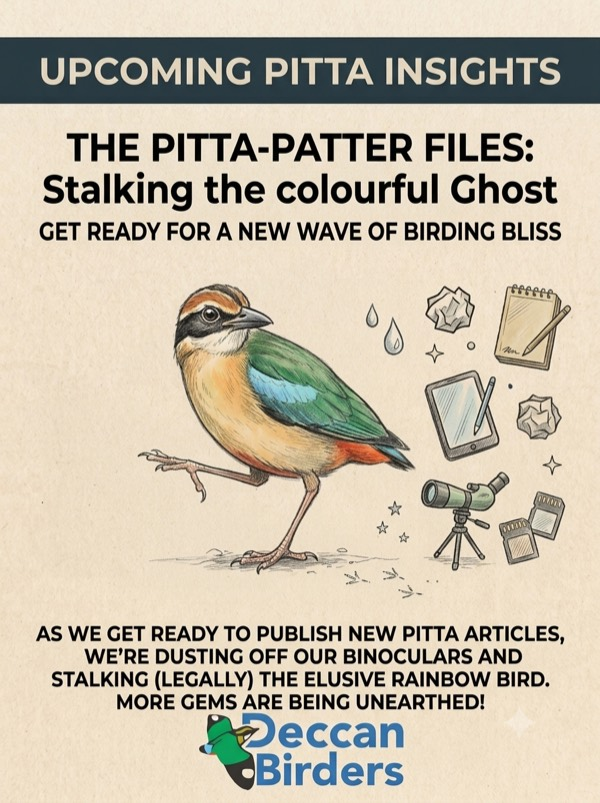
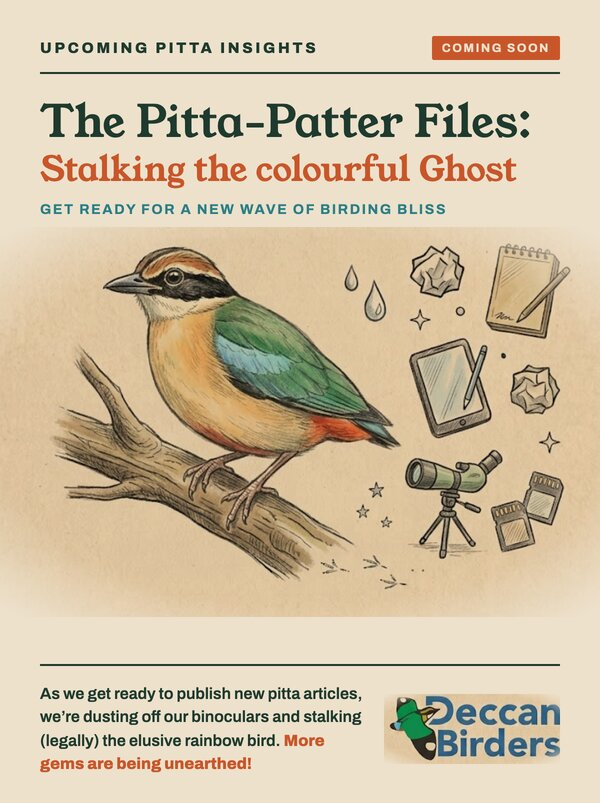
New artwork for PITTA issues not yet out, or never published
"The Pitta-Patter Files: Stalking the colourful Ghost" for issues still
to come, and "The Pitta Files: Digging for Lost Gems" for months with no
issue, replace the two placeholder plates. Converted from the 1200 x 1606
PNGs to 600 x 803 JPEGs (87 and 72 KB, down from about 145 KB each) under
the same names; the plates' address now carries the file's date, so the
new ones show at once instead of cached copies of the old.

Theme version 1.4.

diff --git a/style.css b/style.css
@@ -1,7 +1,7 @@
 /*
 Theme Name: Deccan Birders
 Description: Custom theme for Deccan Birders Society
-Version: 1.3
+Version: 1.4
 Author: Deccan Birders EC
 */
 @import url('assets/css/variables.css');

diff --git a/template-parts/shortcode-pitta-accordion.php b/template-parts/shortcode-pitta-accordion.php
@@ -117,7 +117,13 @@ $issue_data = function($issue) {
       ?>
         <div class="issue gap<?php echo $awaited ? ' gap--soon' : ''; ?>">
           <div class="frame">
-            <img class="cover" src="<?php echo esc_url(get_template_directory_uri() . '/assets/img/' . $plate . '.jpg'); ?>"
+            <img class="cover" src="<?php
+              // Versioned by the file's date: the plates keep their names
+              // when they are redrawn, so without it browsers and the CDN
+              // would go on showing the old ones.
+              $plate_file = '/assets/img/' . $plate . '.jpg';
+              echo esc_url(add_query_arg('ver', (string) @filemtime(get_template_directory() . $plate_file), get_template_directory_uri() . $plate_file));
+            ?>"
                  alt="<?php echo esc_attr(sprintf(
                    /* translators: 1: month, 2: year */
                    $awaited ? __('%1$s %2$s — coming soon', 'deccan-birders') : __('%1$s %2$s — not published', 'deccan-birders'),
